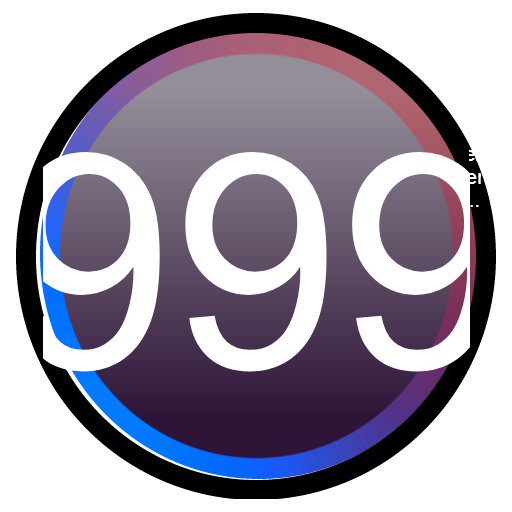
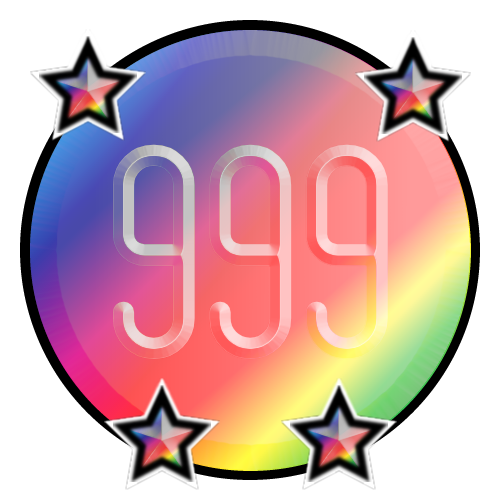
Working Badge system now!

diff --git a/pages/users/user.tsx b/pages/users/user.tsx
@@ -32,9 +32,17 @@ const User = () => {
 			    <tbody>
                     <td>&nbsp;</td>
                     <td className="test">
+						<tr>
+							<br />
+						</tr>
 			            <tr>
 			                <div className="userinfo">
-			        	        <Image src={`/users/${router.query.id}.png`} className="picture" width="200" height="200" />
+								<div className="avatardiv">
+			        	        	<Image src={`/users/${router.query.id}.png`} className="picture" width="200" height="200" />
+								</div>
+								<div className="badgediv">
+									<Image src={`/badges/${data.config?.badge}.png`} className="" width="280" height="280" />
+								</div>
 			    		        <div className="margin-left-10">
 		        		    	    <h1><b>{data.username}</b></h1>
 	    	    		    	    <h3 className="gray">{`"${data.config?.quote}"`}</h3>

diff --git a/styles/globals.css b/styles/globals.css
@@ -41,9 +41,7 @@ input,textarea {
 }
 
 .picture {
-  width: 130px;
-  height: 130px;
-  border-radius: 40px;
+  border-radius: 100px;
   top: 5px;
   margin: 10px;
   background-color: #222222;
@@ -142,4 +140,21 @@ input,textarea {
 .apiTable th {
 	font-size: .85em;
 	letter-spacing: .1em;
+}
+
+.badge {
+  background-color: 'red';
+  width: 20;
+  height: 20;
+  left: 20;
+  top: 20;
+}
+
+.avatardiv {
+  position: absolute;
+}
+
+.badgediv {
+  margin-left: -40px;
+  margin-top: -40px;
 }
